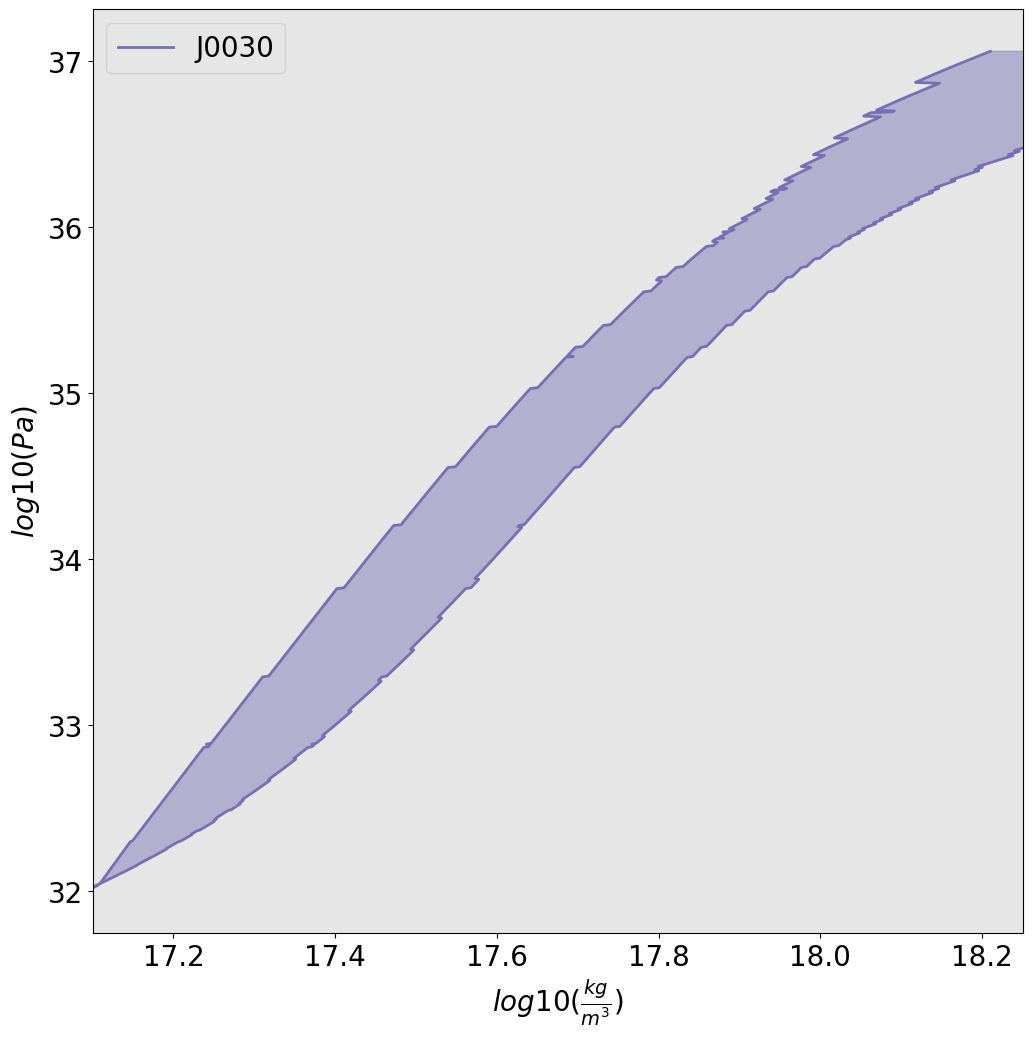
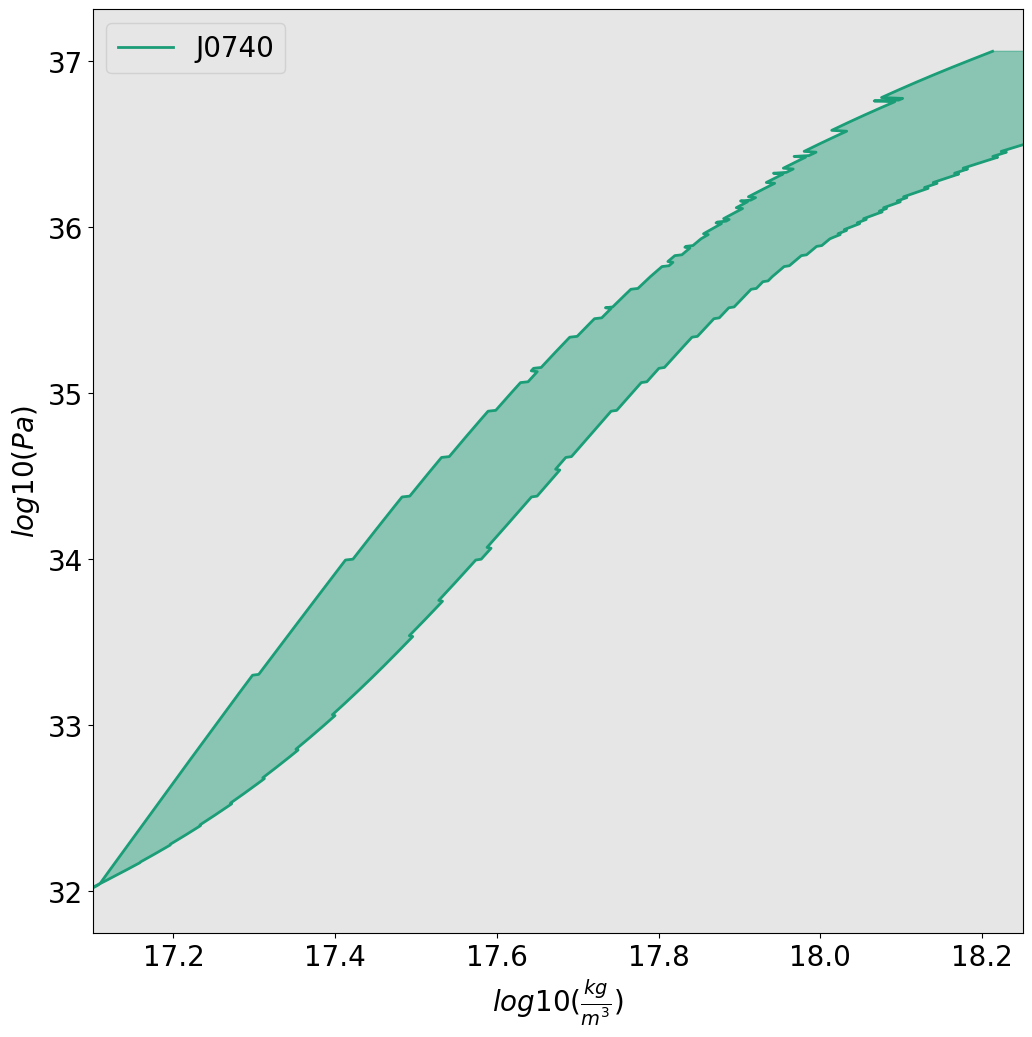
Plots of plots resembling Anarya's. 31th attempt.

Changed region(s): [[0.093, 0.0309, 0.9922, 0.864], [0.2171, 0.0309, 0.2481, 0.0617]]

diff --git a/joint_inference/development/confidence_interval.py b/joint_inference/development/confidence_interval.py
@@ -8,16 +8,15 @@ import corner
 def plot_intervals(outputfiles):
     # Plots differently sourced confidence intervals on top of each other.
 
-# #1b9e77
-
     plotsFiles = [["run_data/8th_cutoff_plotting/spectral_p_vs_rho_cutoff_W100_S10000_GW170817_confidence.txt"],
                   ["run_data/8th_cutoff_plotting/spectral_p_vs_rho_cutoff_W100_S10000_J0030_confidence.txt"],
+                  ["run_data/8th_cutoff_plotting/spectral_p_vs_rho_cutoff_W100_S10000_J0740_XMM_confidence.txt"],
                   ["run_data/8th_cutoff_plotting/spectral_p_vs_rho_cutoff_W100_S10000_GW170817_J0030_hierarchical_confidence.txt"],
                   ["run_data/8th_cutoff_plotting/spectral_p_vs_rho_cutoff_W100_S10000_GW170817_confidence.txt", "run_data/8th_cutoff_plotting/spectral_p_vs_rho_cutoff_W100_S10000_J0030_confidence.txt", "run_data/8th_cutoff_plotting/spectral_p_vs_rho_cutoff_W100_S10000_GW170817_J0030_hierarchical_confidence.txt"]]
 
-    plotsLabels = [["GW170817"], ["J0030"], ["GW+EM"], ["GW170817", "J0030", "GW+EM"]]
+    plotsLabels = [["GW170817"], ["J0030"], ["J0740"], ["GW+EM"], ["GW170817", "J0030", "GW+EM"]]
 
-    plotsColors = [["#d95f02"], ["#7570b3"], ["#000000"], ["#d95f02", "#7570b3", "#000000"]]
+    plotsColors = [["#d95f02"], ["#7570b3"], ["#1b9e77"], ["#000000"], ["#d95f02", "#7570b3", "#000000"]]
 
     pl.figure(figsize=(12,12))
     pl.rc('font', size=20)
@@ -27,9 +26,10 @@ def plot_intervals(outputfiles):
     pl.rc('lines', linewidth=2)
     
     for Files, Labels, Colors, outputfile in zip(plotsFiles,plotsLabels,plotsColors, outputfiles): # increment over each plot file
+
+        pl.clf()
         for File, label, color in zip(Files, Labels, Colors): # increment over each plot
 
-            pl.clf()
             logp_grid, lower_bound, median, upper_bound = np.loadtxt(File).T
             lower_bound = np.log10(lower_bound)
             upper_bound = np.log10(upper_bound)
